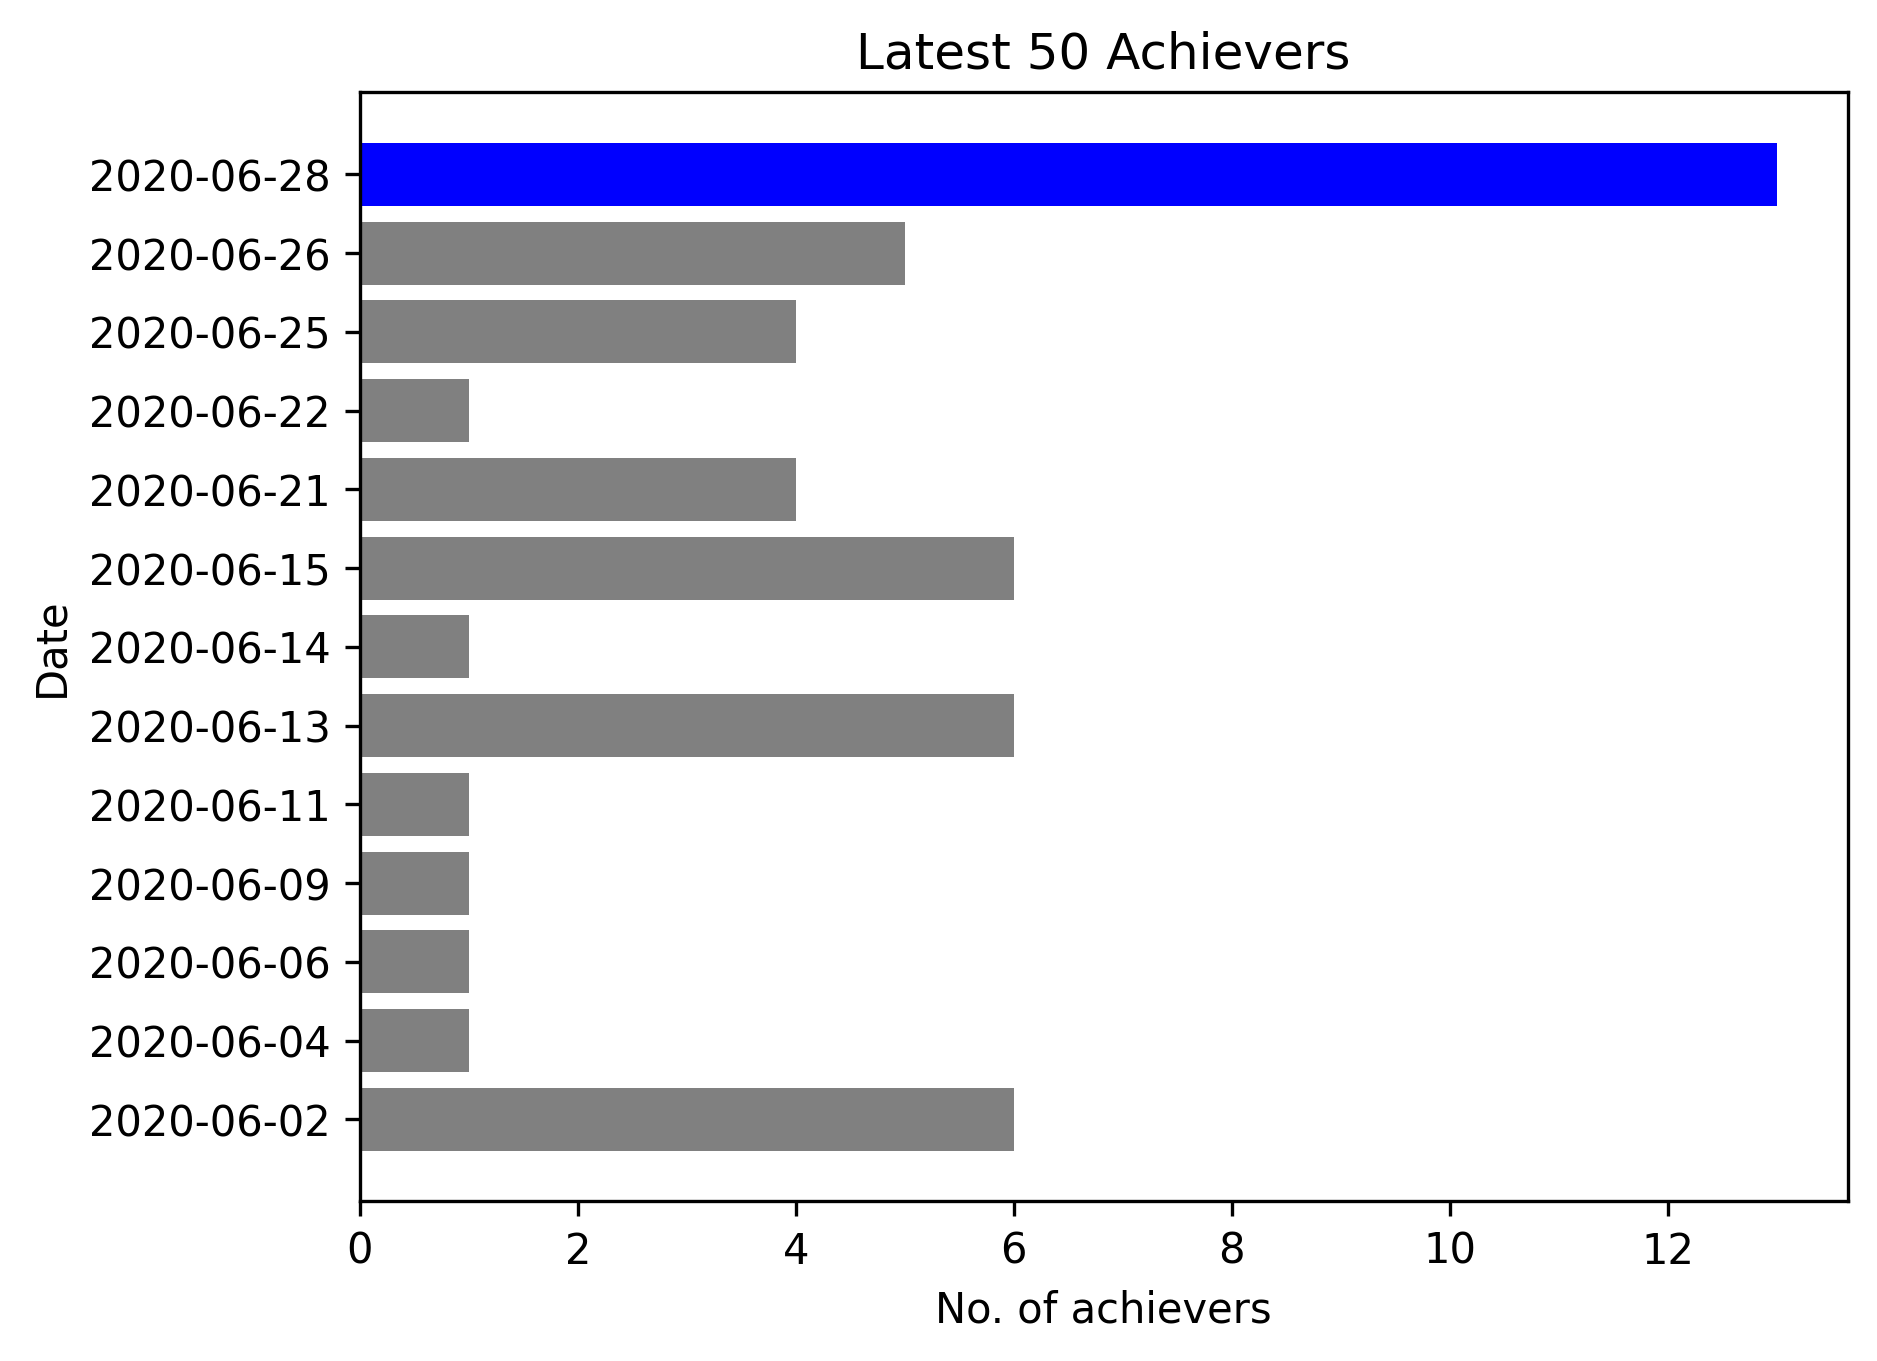
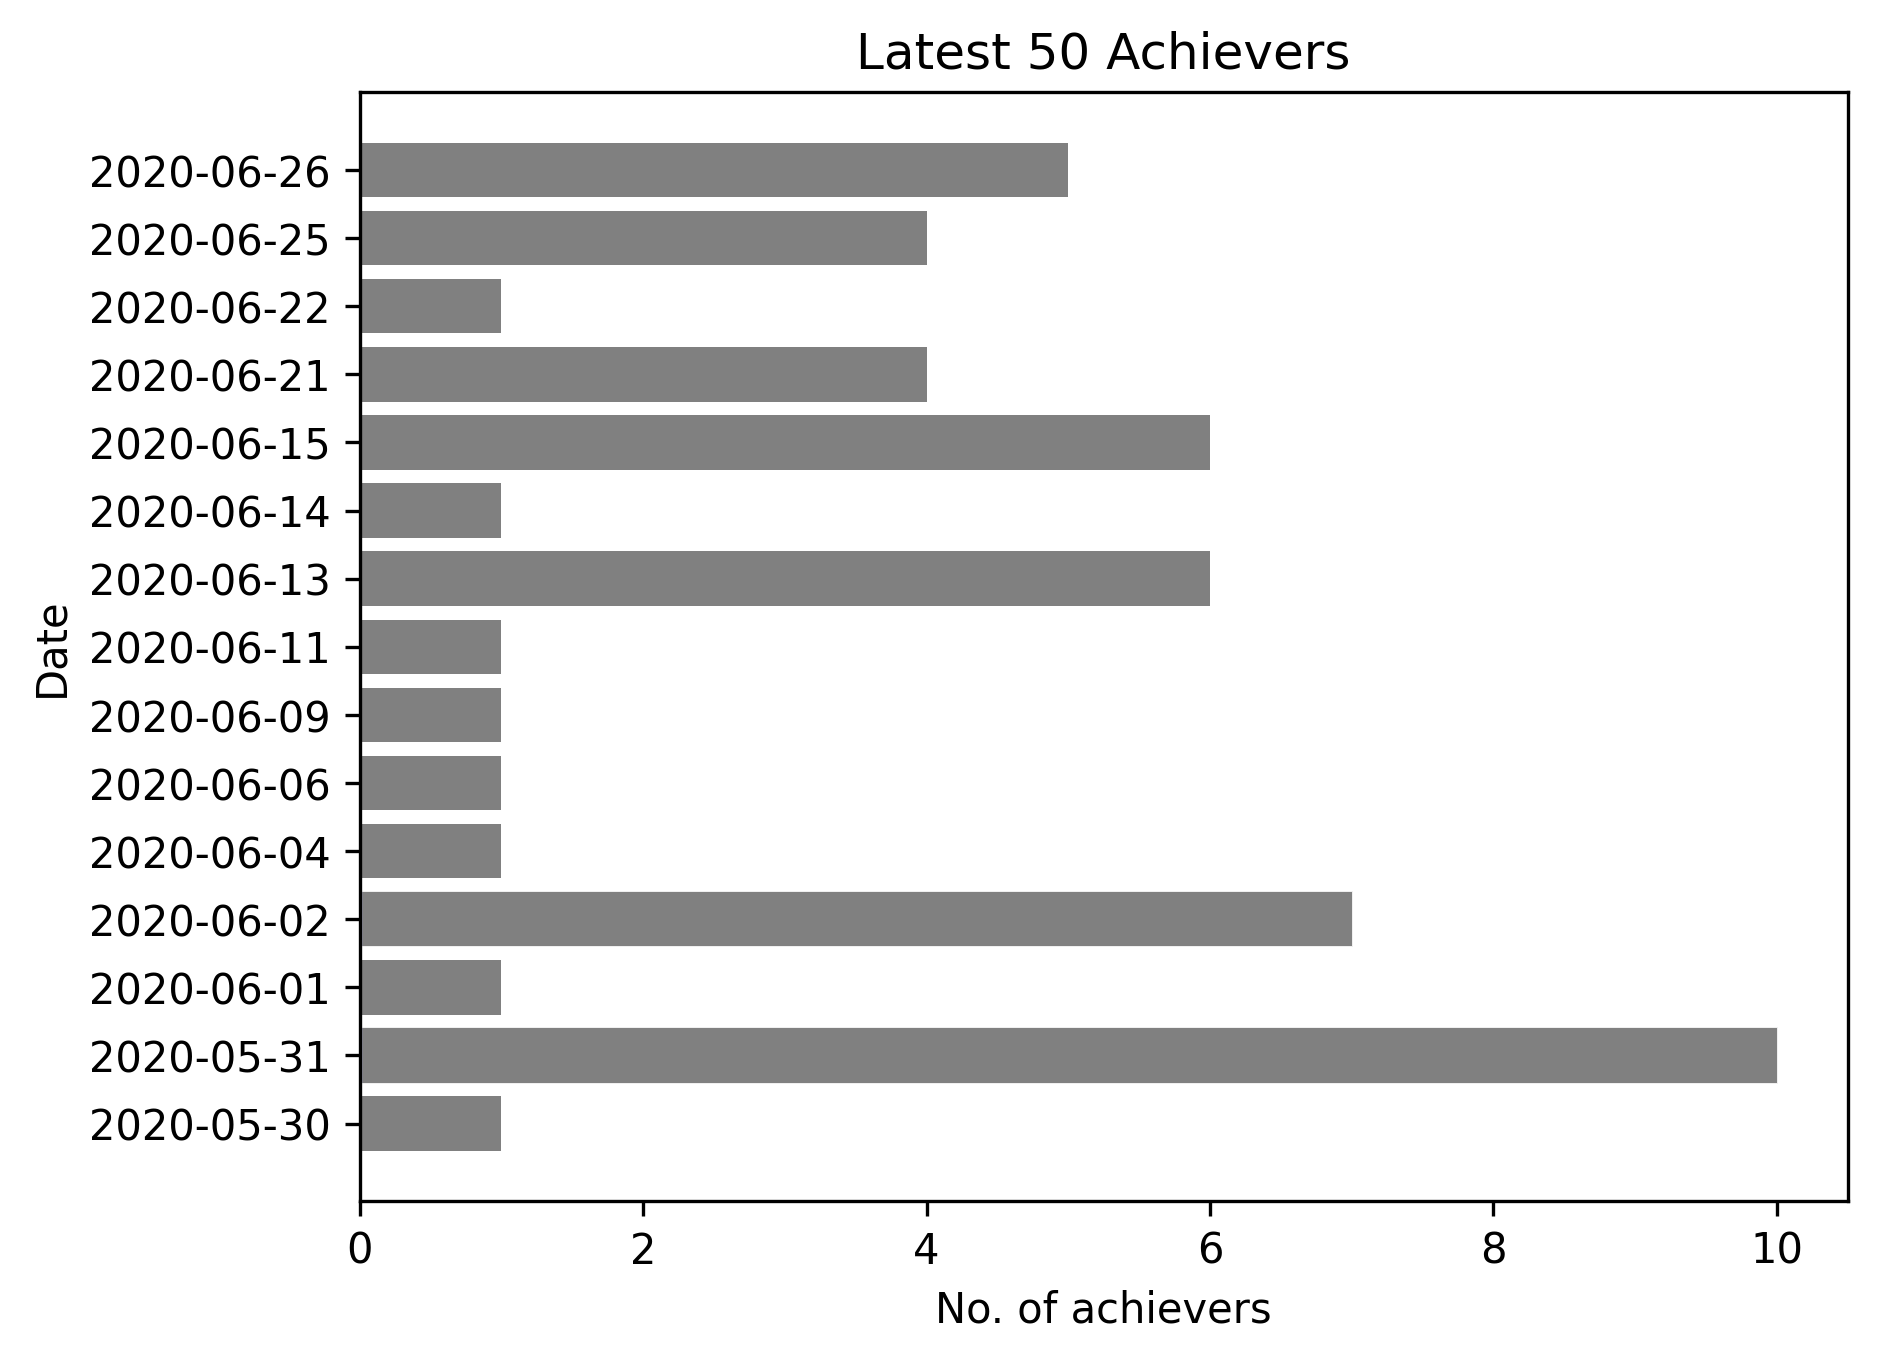
Update Readme

diff --git a/src/main.py b/src/main.py
@@ -35,7 +35,7 @@ def drawBarChart(datesDict: {date: int}):
     xValues = datesDict.values()
     yValues = list(map(lambda k: k.strftime(
         constants.DATE_FORMAT), datesDict.keys()))
-    colors = ['grey' if (x < constants.MAX_AVG_DAILY_ACHIEVERS)
+    colors = ['grey' if (x <= constants.MAX_AVG_DAILY_ACHIEVERS)
               else 'blue' for x in xValues]
 
     plt.barh(yValues, xValues, color=colors, align="center")

diff --git a/README.md b/README.md
@@ -4,8 +4,6 @@
 
 Observing [FIRE UP THAT CAR... AGAIN](https://psnprofiles.com/trophy/8745-dirt-rally-20/9-fire-up-that-car-again) from Dirt Rally 2.0 for anomaly in Latest 50 Achievers. When an anomaly is detected, it (most probably) means that the Delta Daily event was on that date.
 
-<img src="resources/trophy.jpg" alt="The trophy" width=30% />
-
 ## Quick Start
 
 1. `git clone git@github.com:siggb/dirtrally2-observer.git`
@@ -16,4 +14,6 @@ Observing [FIRE UP THAT CAR... AGAIN](https://psnprofiles.com/trophy/8745-dirt-r
 
 ## Horizontal Bar Chart with Results
 
-<img src="resources/barchart.png" alt="Latest 50 Achievers" width=60% />
+<img src="resources/barchart.png" alt="Without anomaly" width=60% />
+
+<img src="resources/barchart_with_anomaly.png" alt="With anomaly" width=60% />
